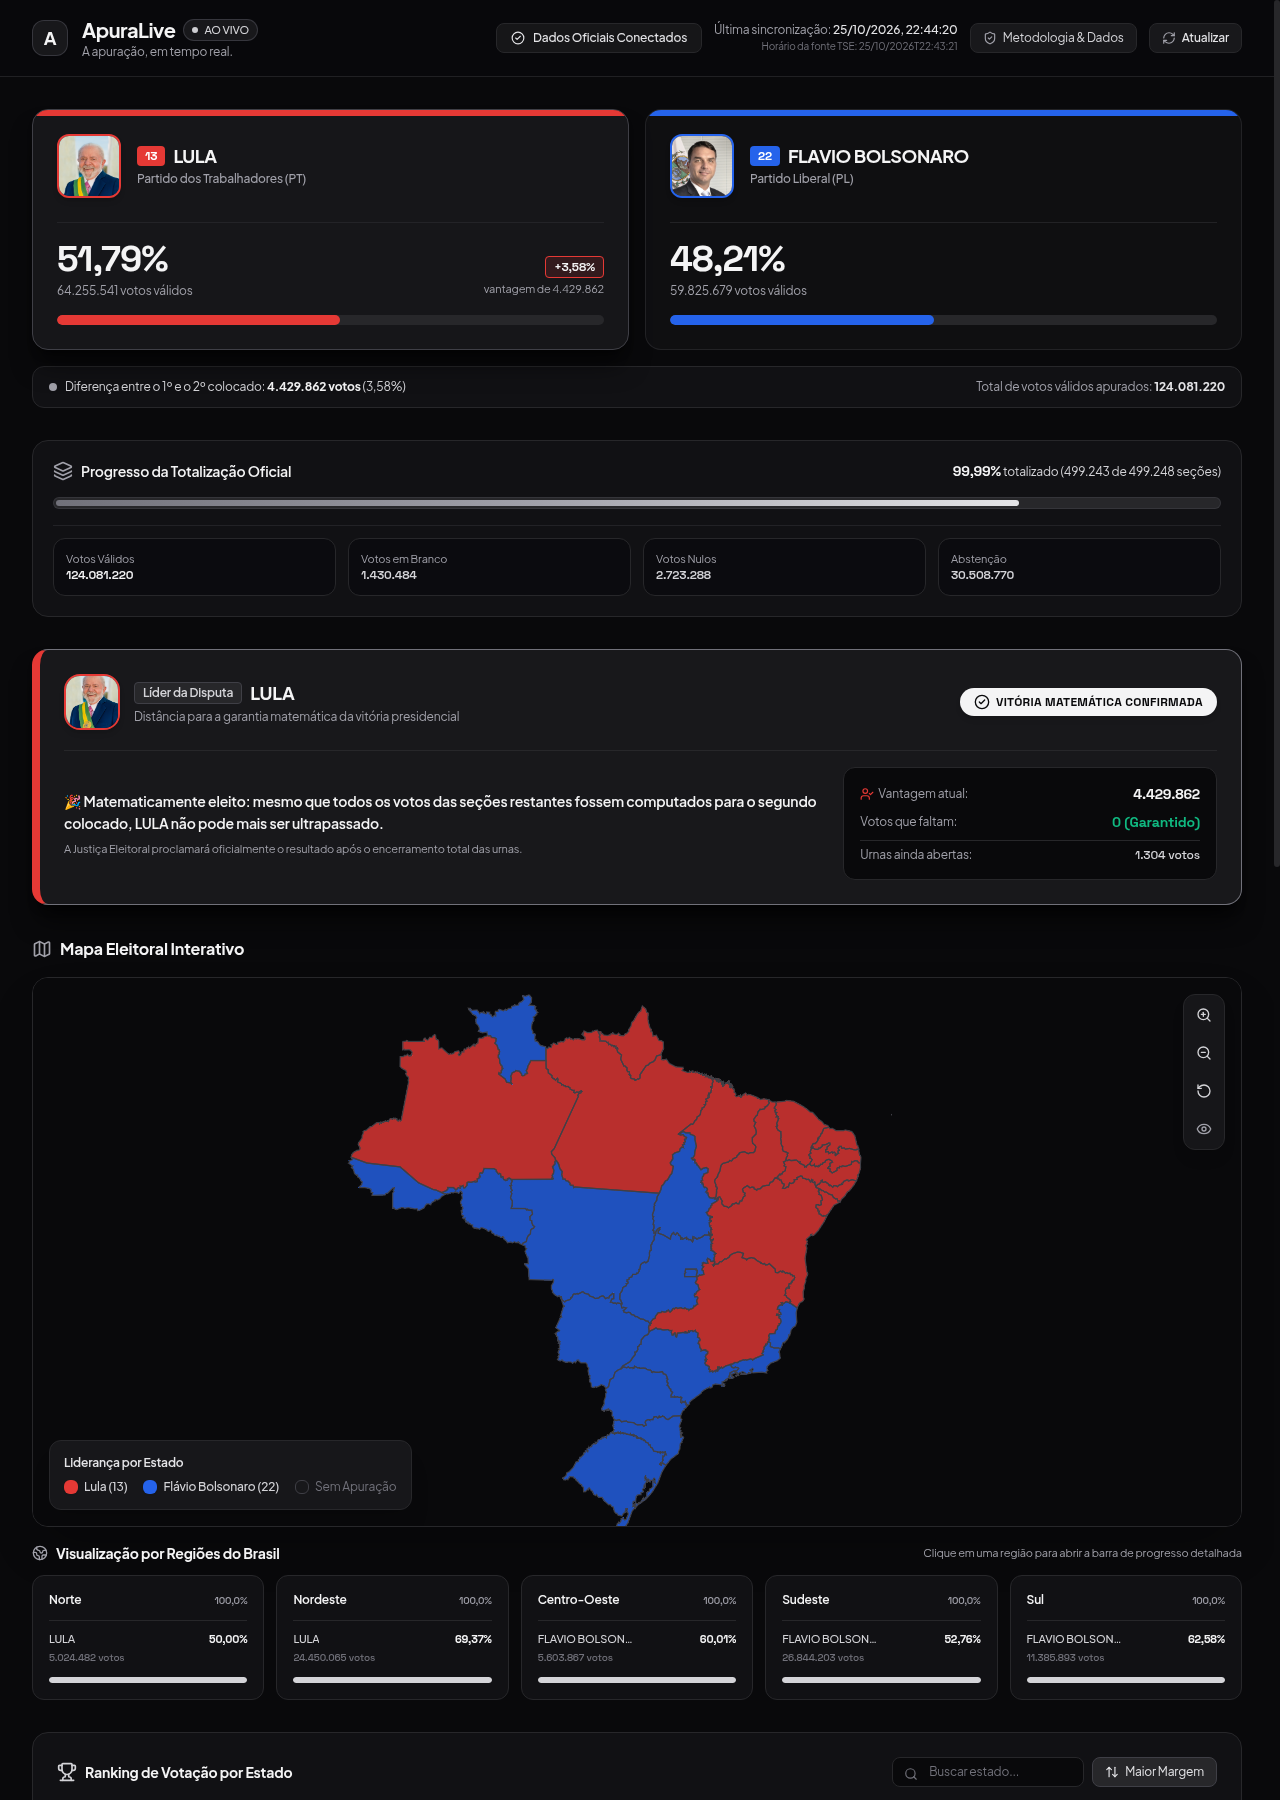
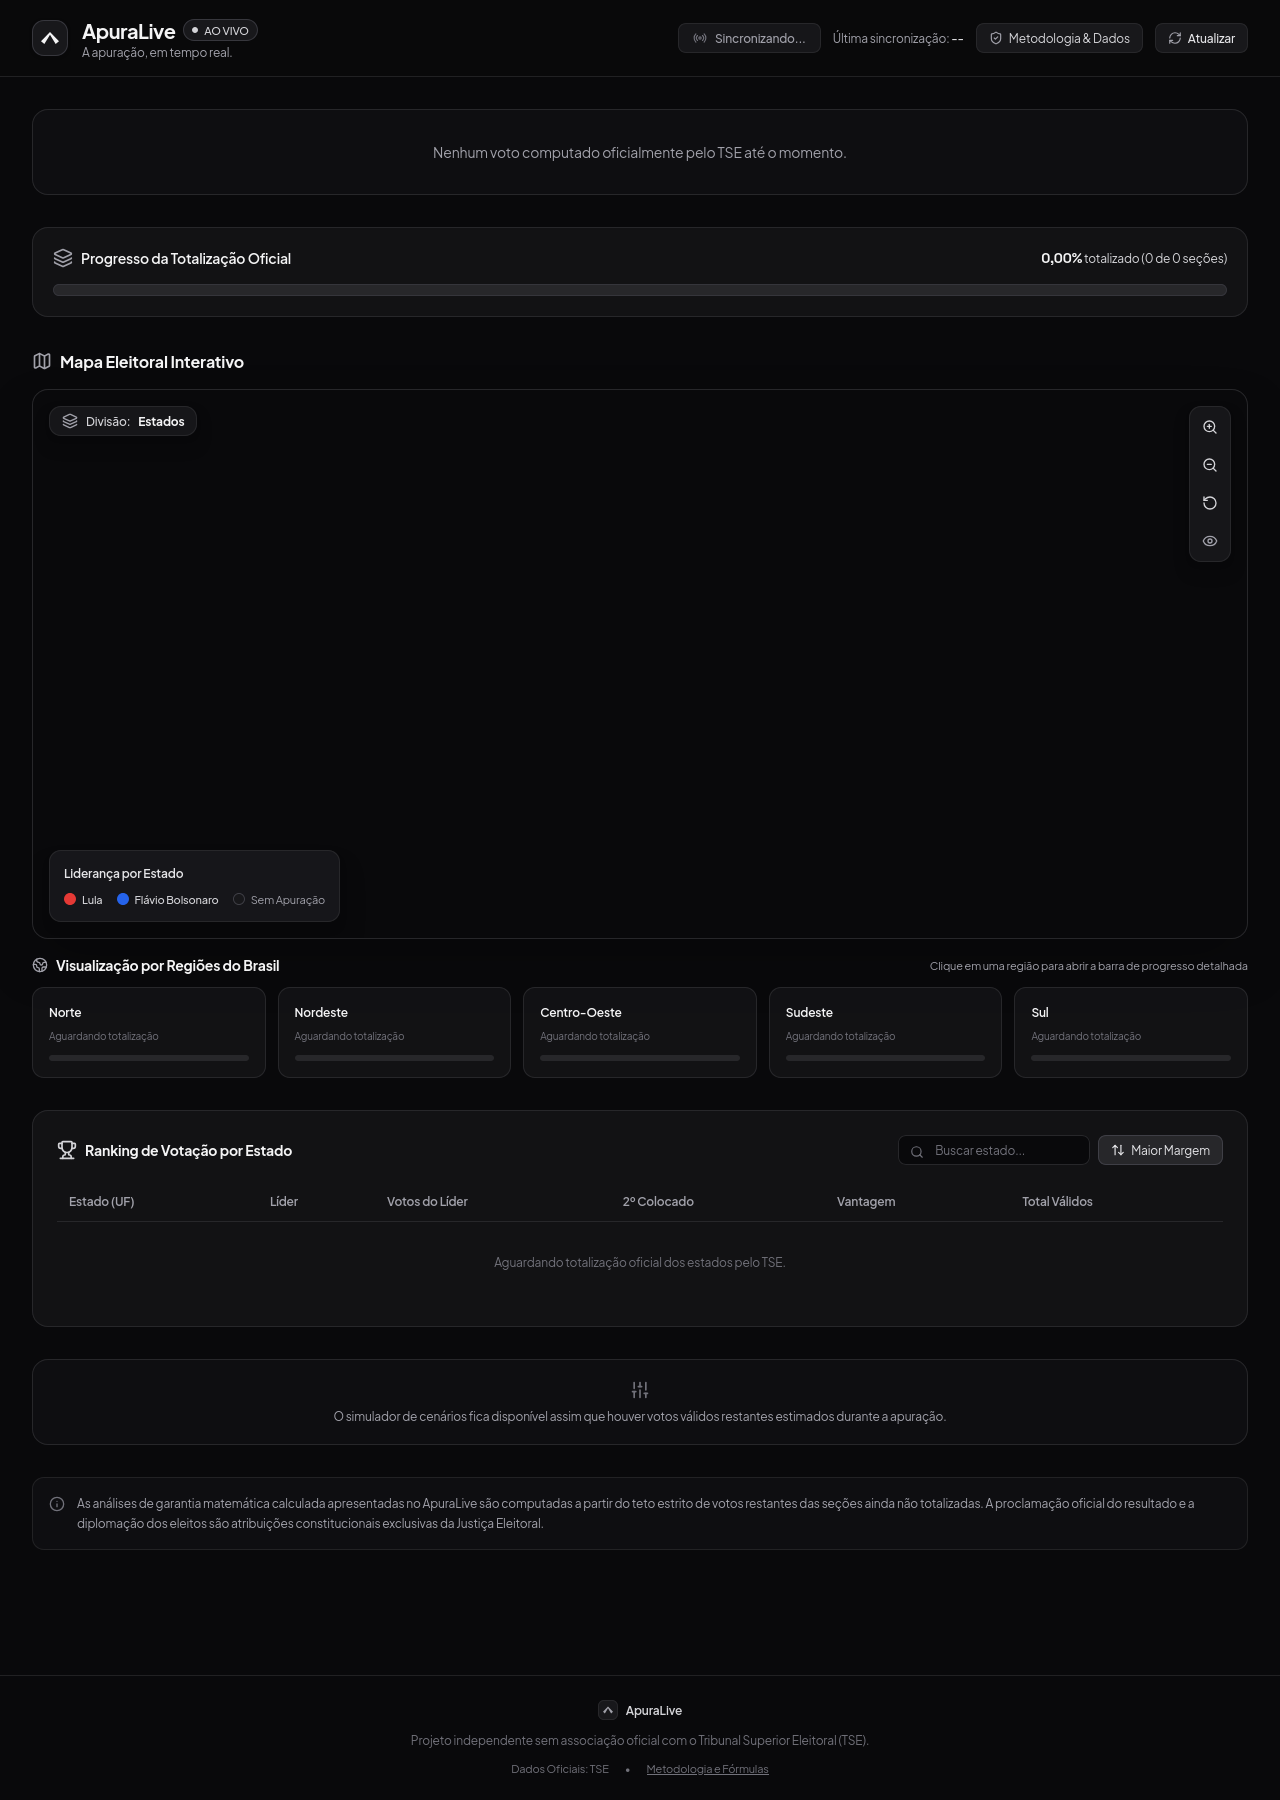
docs: update dashboard screenshot preview and add comprehensive platform features table

diff --git a/README.md b/README.md
@@ -25,51 +25,32 @@
 
 ---
 
-## ✨ Funcionalidades Principais
+## ⚡ Todas as Features da Plataforma
 
-### 1. Placar Nacional em Tempo Real
-- **Dados Oficiais**: Totalização de seções, votos válidos, brancos, nulos e abstenção diretamente da CDN oficial do TSE.
-- **Identificação Visual**: Cores de referência oficial (**Vermelho `#E53935` para Lula** e **Azul `#2563EB` para Flávio Bolsonaro**) com enquadramento de fotos aperfeiçoado (`object-top`) e dados nominais atualizados.
-- **Diferença Dinâmica**: Margem em votos e em pontos percentuais calculada em tempo real.
-
-### 2. Análise Amigável de Irreversibilidade Matemática
-- Abstrai a complexidade jurídica e matemática para responder à pergunta essencial: **"Quantos votos faltam para o líder garantir a vitória matemática?"**
-- Baseada diretamente no candidato à frente, calculando a barreira matemática intransponível sobre o teto conservador das urnas ainda por apurar:
-  $$\text{Votos Necessários} = \max\left(1, \left\lfloor \frac{R - D}{2} \right\rfloor + 1\right)$$
-  *(Onde $D$ é a vantagem atual do líder e $R$ é o teto de votos válidos das seções pendentes)*.
-
-### 3. Mapa Eleitoral Multinível (Estados e Cidades) com Zero Flicker
-- **Zoom Adaptativo**:
-  - **Visão Geral (Estados)**: Exibe a federação com a cor 100% sólida do candidato vencedor de cada UF.
-  - **Visão Aproximada (Cidades)**: Ao dar zoom (`zoom >= 5.8`), o mapa transiciona de forma fluida para a divisão por **mais de 5.500 municípios**.
-- **Escala Divergente Tricolor (`Vermelho <-> Cinza <-> Azul`)**:
-  - No nível municipal, a coloração expressa a intensidade da liderança local: se ambos estiverem em 50%/empate, permanece no **cinza neutro** (`#3f3f46`); à medida que a vantagem cresce, a cor do líder ganha saturação e intensidade proporcional.
-- **Performance e Carregamento Sob Demanda**: Carrega os dados geográficos e de apuração apenas dos municípios que intersectam o viewport visível, sem travamento de transição.
-- **Interatividade Total (Hover e Modais)**:
-  - Passe o mouse sobre estados ou cidades para ver dados resumidos em tempo real.
-  - Clique em qualquer estado ou cidade para abrir o modal detalhado com barra de seções apuradas e contagem nominal de votos com fotos dos candidatos.
-- **Câmera Estável**: As atualizações automáticas de dados ocorrem de forma imperceptível, sem resetar a posição, zoom ou pan do usuário.
-
-### 4. Acompanhamento Regional com Barra de Progresso
-- Painel para as 5 macrorregiões brasileiras (*Norte, Nordeste, Centro-Oeste, Sudeste e Sul*).
-- Sidebar detalhada comparando visualmente as **Urnas Apuradas** versus **Urnas Faltantes** da região selecionada.
-
-### 5. Rankings Estaduais
-- Tabela com ordenação instantânea por **Maior Margem** ou por **Volume de Votos Válidos**, com busca interativa por estado ou sigla (UF).
-
-### 6. Simulador de Cenários Hipotéticos
-- Posicionado estrategicamente na seção inferior, permite ao usuário mover sliders para projetar como ficaria o placar final caso os votos restantes fossem distribuídos em determinada proporção.
-- Selo de integridade visível: *Simulação Hipotética — Não é Resultado Oficial*.
-
-### 7. Exportação e Compartilhamento
-- Exportação dos dados da apuração em tempo real nos formatos **JSON** e **CSV**.
-- Botão rápido para copiar resumo formatado pronto para redes sociais.
-
----
-
-## 🎨 Identidade Visual e Nova Logo
-
-O ApuraLive adota uma identidade visual moderna em **Dark Mode Neutro** (paleta Zinc / `#09090b` / `#18181b`) para assegurar máxima imparcialidade, elegância e legibilidade. A marca conta com o vetor geométrico exclusivo de chevron presente no Favicon, Cabeçalho e Rodapé.
+| Categoria | Feature | Descrição Detalhada |
+| :--- | :--- | :--- |
+| **Placar Nacional** | **Dados ao Vivo da CDN TSE** | Consulta direta aos arquivos oficiais EA14 e EA20 da eleição presidencial. |
+| **Placar Nacional** | **Fotos & Identificação Visual** | Cores oficiais dos candidatos (**Vermelho `#E53935` para Lula** e **Azul `#2563EB` para Flávio Bolsonaro**) com enquadramento de fotos aperfeiçoado (`object-top`). |
+| **Placar Nacional** | **Contagem e Percentuais Nominais** | Votos válidos, brancos, nulos, abstenções e seções totalizadas atualizados em tempo real. |
+| **Placar Nacional** | **Diferença Dinâmica** | Cálculo instantâneo da margem de liderança em votos absolutos e percentuais. |
+| **Análise Matemática** | **Irreversibilidade Amigável** | Cálculo objetivo focado no líder: exibe exatamente quantos votos faltam para garantir a vitória matemática. |
+| **Análise Matemática** | **Teto Estrito Conservador ($R$)** | Considera o limite superior de votos ainda possíveis nas urnas pendentes para garantir 100% de precisão. |
+| **Mapa Interativo** | **Visão Multinível por Zoom** | Transição automática entre visualização por **Estados (UFs)** e por **Municípios (5.564 cidades)** ao atingir o limiar de zoom (`zoom >= 5.8`). |
+| **Mapa Interativo** | **Cor Sólida por Estado** | No nível geral, os estados são pintados com a cor 100% intensa do líder local. |
+| **Mapa Interativo** | **Escala Divergente Tricolor (`Vermelho <-> Cinza <-> Azul`)** | No nível municipal, a intensidade da cor varia gradualmente conforme a vantagem percentual sobre o concorrente (com cinza neutro em caso de empate/50%). |
+| **Mapa Interativo** | **Zero Flicker & Câmera Preservada** | A atualização em segundo plano não recria o canvas nem reseta a posição, o zoom ou o pan do usuário. |
+| **Mapa Interativo** | **Carregamento Otimizado por Viewport** | Download dinâmico dos dados municipais apenas das UFs visíveis na tela, garantindo alta fluidez. |
+| **Mapa Interativo** | **Popups e Modais Detalhados** | Tooltip ao passar o mouse e modal completo ao clicar sobre qualquer estado ou cidade com fotos, progresso de urnas e votação nominal. |
+| **Mapa Interativo** | **Controles de Navegação** | Botões flutuantes para zoom in, zoom out, reset para a visualização do Brasil inteiro e alternância de alto contraste. |
+| **Regiões & Urnas** | **Acompanhamento Regional** | Totalização agregada para as 5 macrorregiões do país (*Norte, Nordeste, Centro-Oeste, Sudeste e Sul*). |
+| **Regiões & Urnas** | **Sidebar de Progresso das Urnas** | Exibe a barra de progresso visual comparando seções apuradas versus seções faltantes por região. |
+| **Tabelas & Filtros** | **Rankings Estaduais Interativos** | Classificação instantânea por maior margem percentual ou maior volume absoluto de votos, com busca por nome de estado ou sigla (UF). |
+| **Simulador** | **Cenários Hipotéticos** | Distribuição interativa dos votos válidos restantes via slider, simulando projeções finais de placar com badge explícito de simulação não-oficial. |
+| **Exportação** | **Exportação JSON e CSV** | Download dos dados consolidados em formatos estruturados para auditoria ou análises externas. |
+| **Exportação** | **Cópia para Redes Sociais** | Botão de compartilhamento rápido com resumo textual pronto para publicação. |
+| **Transparência** | **Modal de Metodologia e Auditoria** | Explicação jurídica da isenção editorial, detalhamento das fórmulas matemáticas e links diretos para a documentação técnica oficial do TSE. |
+| **Design & Branding** | **Nova Logo em Vetor** | Vetor geométrico chevron aplicado em todo o ecossistema: Favicon, Cabeçalho e Rodapé. |
+| **Design & Branding** | **Dark Mode Imparcial** | Paleta sofisticada baseada em tons neutros de zinco (`#09090b` / `#18181b`) que garante total neutralidade jornalística. |
 
 ---
 
